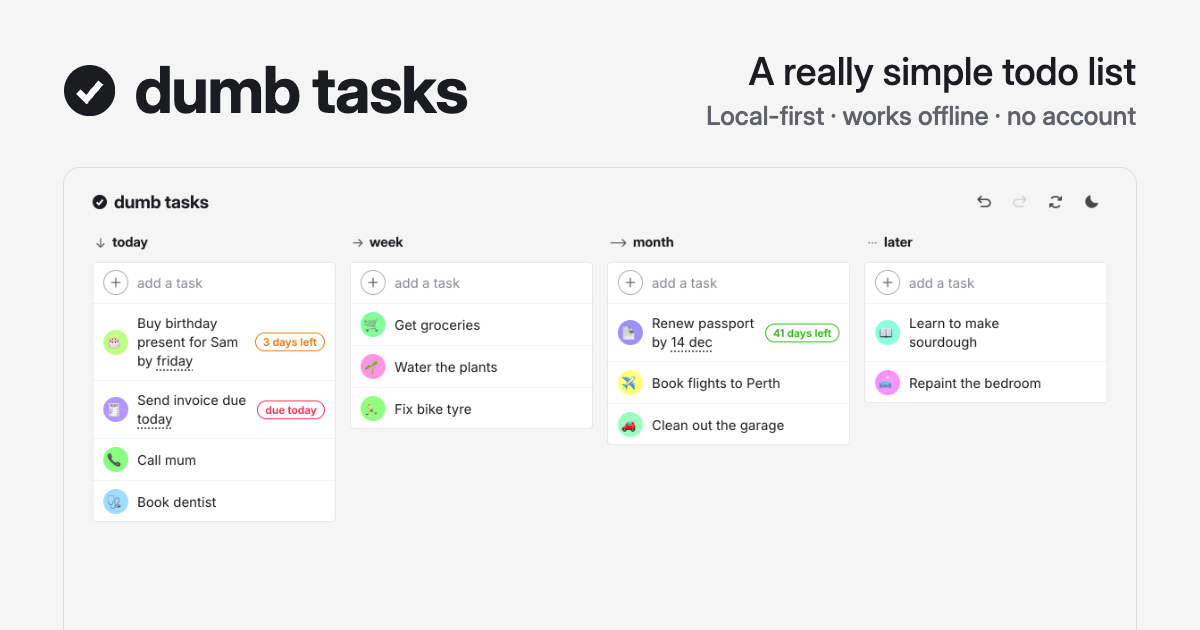
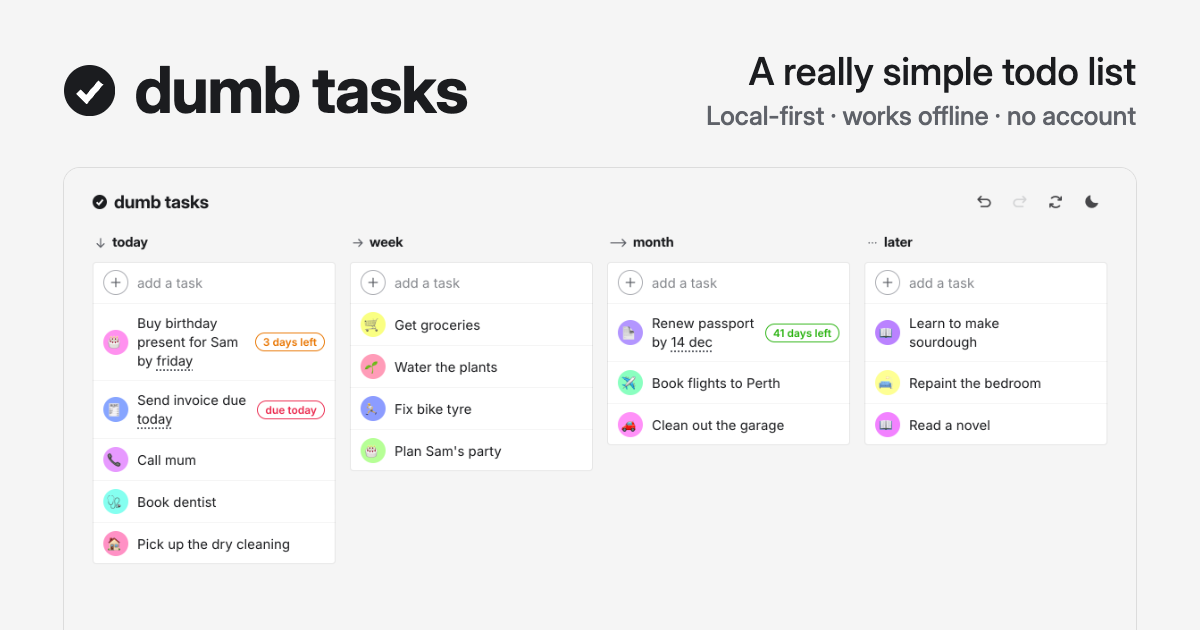
Fill out preview lists; frame phone like desktop window

diff --git a/scripts/make-preview-image.js b/scripts/make-preview-image.js
@@ -24,10 +24,11 @@ const TASKS = {
     'Send invoice due today',
     'Call mum',
     'Book dentist',
+    'Pick up the dry cleaning',
   ],
-  Week: ['Get groceries', 'Water the plants', 'Fix bike tyre'],
+  Week: ['Get groceries', 'Water the plants', 'Fix bike tyre', "Plan Sam's party"],
   Month: ['Renew passport by 14 dec', 'Book flights to Perth', 'Clean out the garage'],
-  Later: ['Learn to make sourdough', 'Repaint the bedroom'],
+  Later: ['Learn to make sourdough', 'Repaint the bedroom', 'Read a novel'],
 };
 
 // The app's colours for each theme (src/app.css)
@@ -38,11 +39,10 @@ const THEMES = {
     muted: '#5f6269',
     onText: '#ffffff',
     edge: '0 0 0 1px rgb(0 0 0 / 0.1)',
-    // The README's devices: a darker backdrop, a window bar and a phone bezel
+    // The README's devices: a darker backdrop, framed like a window bar (dots for buttons)
     backdrop: '#e1e2e6',
     frame: '#cfd0d5',
     dots: '#a9abb1',
-    bezel: '#1b1c1f',
     lift: '0 0 0 1px rgb(0 0 0 / 0.12), 0 16px 48px rgb(0 0 0 / 0.18)',
   },
   dark: {
@@ -54,7 +54,6 @@ const THEMES = {
     backdrop: '#1c1d20',
     frame: '#323337',
     dots: '#5c5e64',
-    bezel: '#46474c',
     lift: '0 0 0 1px rgb(255 255 255 / 0.12), 0 16px 48px rgb(0 0 0 / 0.7)',
   },
 };
@@ -216,7 +215,7 @@ for (const [name, theme] of Object.entries(THEMES)) {
         left: 1130px;
         top: 140px;
         width: 380px;
-        border: 10px solid ${theme.bezel};
+        border: 10px solid ${theme.frame}; /* same as the desktop's window bar */
         border-bottom: none;
         border-radius: 44px 44px 0 0;
         box-shadow: ${theme.lift};
@@ -226,7 +225,7 @@ for (const [name, theme] of Object.entries(THEMES)) {
     <div class="window phone"><img src="${shots.phone}" /></div>`,
     { ...theme, bg: theme.backdrop },
     1600,
-    600,
+    560,
     `docs/preview${name === 'light' ? '' : '-dark'}.png`,
   );
 }
